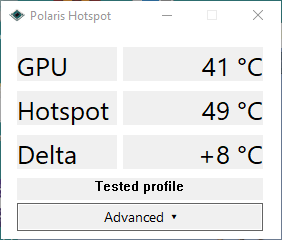
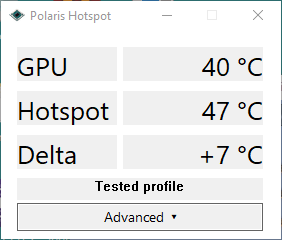
Clean up the owned RTCore service after reader exit

diff --git a/windows/main.cpp b/windows/main.cpp
@@ -20,12 +20,12 @@
 #include "BoardInfo.hpp"
 #include "polaris_memory_bios.hpp"
 #include "polaris_slt.hpp"
+#include "ServiceGuard.hpp"
 
 static void check(bool ok, const char* message) { if (!ok) throw std::runtime_error(message); }
 class Reader {
     static constexpr DWORD grbmIndex=0xC200u*4; // Register index -> BAR5 byte offset.
     HANDLE device = INVALID_HANDLE_VALUE, mutex = nullptr;
-    SC_HANDLE manager = nullptr, service = nullptr;
     std::array<unsigned char,48> mapping{};
     bool mapped = false;
     DWORD bus = 0, slot = 0, function = 0;
@@ -113,34 +113,19 @@ class Reader {
         }
         return paths;
     }
-    static bool compatible(const std::wstring& path) {
-        std::ifstream input(path,std::ios::binary|std::ios::ate);
-        if(!input || input.tellg()<=0 || input.tellg()>1024*1024) return false;
-        input.seekg(0);
-        std::string bytes((std::istreambuf_iterator<char>(input)),{});
-        if(bytes.empty()) return false;
-        unsigned char digest[32]{};
-        if(BCryptHash(BCRYPT_SHA256_ALG_HANDLE,nullptr,0,reinterpret_cast<PUCHAR>(&bytes[0]),static_cast<ULONG>(bytes.size()),digest,32)!=0) return false;
-        const unsigned char expected[32]={0xf1,0xc8,0xca,0x23,0x27,0x89,0xc2,0xf1,0x1a,0x51,0x1c,0x8c,0xd9,0x5a,0x9f,0x38,0x30,0xdd,0x71,0x9c,0xad,0x5a,0xa2,0x2c,0xb7,0xc3,0x53,0x9a,0xb8,0xcb,0x4d,0xc3};
-        return std::memcmp(digest,expected,32)==0;
-    }
-    void startDriver() {
+    void startDriver(HANDLE lifecycleGate) {
         std::wstring path;
-        for(const auto& candidate:driverPaths()) if(compatible(candidate)) { path=candidate; break; }
+        for(const auto& candidate:driverPaths()) if(service_guard::compatible(candidate)) { path=candidate; break; }
         check(!path.empty(),"Compatible RTCore64.sys not found in MSI Afterburner or beside this EXE");
-        manager=OpenSCManagerW(nullptr,nullptr,SC_MANAGER_CREATE_SERVICE);
-        check(manager!=nullptr,"Administrator access required");
-        service=CreateServiceW(manager,L"PolarisHotspotRTCore",L"Polaris Hotspot register access",SERVICE_START|SERVICE_STOP|DELETE|SERVICE_QUERY_STATUS,SERVICE_KERNEL_DRIVER,SERVICE_DEMAND_START,SERVICE_ERROR_NORMAL,path.c_str(),nullptr,nullptr,nullptr,nullptr,nullptr);
-        check(service!=nullptr,"Cannot create temporary driver service; check for another instance");
-        check(StartServiceW(service,0,nullptr)!=FALSE,"Windows could not load the register driver");
+        check(service_guard::launch(lifecycleGate,path),"Windows could not start the temporary RTCore service");
         openDevice(); check(device!=INVALID_HANDLE_VALUE,"Driver device unavailable");
     }
 public:
     BoardInfo board;
     DWORD identity=0;
     bool tested=false;
-    void open() {
-        locate(); openDevice(); if (device==INVALID_HANDLE_VALUE) startDriver();
+    void open(HANDLE lifecycleGate) {
+        locate(); openDevice(); if (device==INVALID_HANDLE_VALUE) startDriver(lifecycleGate);
         identity=pci(0);
         check(polaris::accepts_device(identity&0xFFFF,identity>>16) && (pci(4)&2),"GPU identity or memory decoding invalid");
         tested=polaris::tested_profile(identity>>16,pci(0x2c),pci(8)&0xFF);
@@ -232,8 +217,6 @@ public:
         if(mapped) { DWORD bytes=0; DeviceIoControl(device,0x80002044,mapping.data(),48,nullptr,0,&bytes,nullptr); }
         if(device!=INVALID_HANDLE_VALUE) CloseHandle(device);
         if(mutex) CloseHandle(mutex);
-        if(service) { SERVICE_STATUS status{}; ControlService(service,SERVICE_CONTROL_STOP,&status); DeleteService(service); CloseServiceHandle(service); }
-        if(manager) CloseServiceHandle(manager);
     }
 };
 
@@ -309,16 +292,26 @@ static LRESULT CALLBACK windowProc(HWND window,UINT message,WPARAM w,LPARAM l) {
     return DefWindowProcW(window,message,w,l);
 }
 int WINAPI wWinMain(HINSTANCE instance,HINSTANCE,PWSTR,int show) {
+    HANDLE lifecycleGate=nullptr;
     try {
         int count=0; auto args=CommandLineToArgvW(GetCommandLineW(),&count); check(args!=nullptr,"Arguments unavailable");
+        if(count==7 && std::wstring(args[1])==L"--service-guardian"){
+            auto handle=[&](int index){return reinterpret_cast<HANDLE>(static_cast<std::uintptr_t>(std::stoull(args[index])));};
+            HANDLE parent=handle(2),gate=handle(3),ready=handle(4),success=handle(5);std::wstring path=args[6];LocalFree(args);
+            return service_guard::run(parent,gate,ready,success,path);
+        }
         for(int i=1;i<count;++i) {
             if(std::wstring(args[i])==L"--samples" && i+1<count) { sampleLimit=std::stoul(args[++i]); check(sampleLimit>0,"Sample count must be positive"); }
             else if(std::wstring(args[i])==L"--log" && i+1<count) { check(logFile==nullptr,"Duplicate log option"); check(_wfopen_s(&logFile,args[++i],L"wx")==0,"Cannot create new log file"); }
             else throw std::runtime_error("Options: --samples N --log new-file.csv");
         }
         LocalFree(args);
+        SECURITY_ATTRIBUTES security{sizeof(security),nullptr,TRUE};
+        lifecycleGate=CreateEventW(&security,TRUE,FALSE,L"Global\\PolarisHotspot.Lifecycle");
+        check(lifecycleGate!=nullptr,"Cannot initialize lifecycle guard");
+        if(GetLastError()==ERROR_ALREADY_EXISTS){CloseHandle(lifecycleGate);lifecycleGate=nullptr;throw std::runtime_error("Polaris Hotspot is already running or finishing cleanup");}
         reader=std::make_unique<Reader>();
-        try{reader->open();}catch(const std::exception& e){startupError=e.what();}
+        try{reader->open(lifecycleGate);}catch(const std::exception& e){startupError=e.what();}
         if(logFile) { fprintf(logFile,"# pci=0x%08lX;identification_reads=%u\n",reader->identity,reader->board.acquisitions);fprintf(logFile,"# name=%ls;units=%ls;revision=%ls;vbios=%ls;sid=%ls\n",reader->board.name.c_str(),reader->board.units.c_str(),reader->board.revision.c_str(),reader->board.bios.c_str(),reader->board.sid.c_str());fprintf(logFile,"# asic_quality=%ls;quality_raw=%u\n",reader->board.quality.c_str(),reader->board.qualityRaw);fprintf(logFile,"uptime_ms,raw,hotspot_c,selector_restored,gpu_c,delta_c\n"); fflush(logFile); }
         if(logFile){fprintf(logFile,"# slt=%ls\n",reader->board.slt.c_str());fprintf(logFile,"# memory_reads=%u;vendor=%ls;model=%ls;bytes=%llu;module=%u;memory_error=%s\n",reader->board.memoryAcquisitions,reader->board.memoryVendor.c_str(),reader->board.memoryModel.c_str(),reader->board.memoryBytes,reader->board.memoryModule,reader->board.memoryError.c_str());fflush(logFile);}
         WNDCLASSW cls{}; cls.lpfnWndProc=windowProc; cls.hInstance=instance; cls.lpszClassName=L"PolarisHotspotWindow"; cls.hCursor=LoadCursor(nullptr,IDC_ARROW); cls.hbrBackground=reinterpret_cast<HBRUSH>(COLOR_WINDOW+1);
@@ -335,5 +328,5 @@ int WINAPI wWinMain(HINSTANCE instance,HINSTANCE,PWSTR,int show) {
         result=1; if(logFile) { fprintf(logFile,"ERROR,%s\n",e.what()); fflush(logFile); }
         if(!sampleLimit) MessageBoxA(nullptr,e.what(),"Polaris Hotspot",MB_ICONERROR);
     }
-    reader.reset(); if(font) DeleteObject(font);if(detailsFont)DeleteObject(detailsFont); if(logFile) fclose(logFile); return result;
+    reader.reset();if(lifecycleGate)CloseHandle(lifecycleGate); if(font) DeleteObject(font);if(detailsFont)DeleteObject(detailsFont); if(logFile) fclose(logFile); return result;
 }

diff --git a/windows/ServiceGuard.hpp b/windows/ServiceGuard.hpp
@@ -1,0 +1,121 @@
+#pragma once
+#include <windows.h>
+#include <bcrypt.h>
+#include <string>
+#include <vector>
+#include <fstream>
+#include <cstring>
+#include <cstdint>
+#include <cstdio>
+
+namespace service_guard {
+constexpr wchar_t serviceName[]=L"PolarisHotspotRTCore";
+
+// The validated driver files from Afterburner 4.6.5, 4.6.6 and 4.6.7 Beta 2.
+inline bool compatible(const std::wstring& path) {
+    std::ifstream input(path,std::ios::binary|std::ios::ate);
+    if(!input||input.tellg()<=0||input.tellg()>1024*1024)return false;
+    input.seekg(0);std::string bytes((std::istreambuf_iterator<char>(input)),{});
+    if(bytes.empty())return false;
+    unsigned char digest[32]{};
+    if(BCryptHash(BCRYPT_SHA256_ALG_HANDLE,nullptr,0,reinterpret_cast<PUCHAR>(&bytes[0]),static_cast<ULONG>(bytes.size()),digest,32)!=0)return false;
+    const unsigned char allowed[][32]={
+        {0xf1,0xc8,0xca,0x23,0x27,0x89,0xc2,0xf1,0x1a,0x51,0x1c,0x8c,0xd9,0x5a,0x9f,0x38,0x30,0xdd,0x71,0x9c,0xad,0x5a,0xa2,0x2c,0xb7,0xc3,0x53,0x9a,0xb8,0xcb,0x4d,0xc3},
+        {0xa4,0xf4,0x4e,0x26,0x76,0x98,0xd4,0x7f,0x6a,0x90,0x5e,0x96,0xb3,0x56,0x58,0x2b,0x4e,0xe9,0xcf,0x40,0x49,0xe8,0xc7,0x92,0xff,0xda,0x1b,0x73,0x56,0xe6,0x8d,0x35}
+    };
+    for(const auto& hash:allowed)if(std::memcmp(digest,hash,32)==0)return true;
+    return false;
+}
+
+inline void recordFailure(const char* operation,DWORD error) {
+    wchar_t directory[MAX_PATH]{};
+    if(!GetTempPathW(MAX_PATH,directory))return;
+    std::wstring path=std::wstring(directory)+L"PolarisHotspot-cleanup.log";
+    FILE* f=nullptr;
+    if(_wfopen_s(&f,path.c_str(),L"a")==0){std::fprintf(f,"%s: Windows error %lu\n",operation,error);std::fclose(f);}
+}
+
+inline bool requestStop(SC_HANDLE service) {
+    SERVICE_STATUS status{};
+    if(!QueryServiceStatus(service,&status))return false;
+    if(status.dwCurrentState==SERVICE_STOPPED||status.dwCurrentState==SERVICE_STOP_PENDING)return true;
+    return ControlService(service,SERVICE_CONTROL_STOP,&status)||GetLastError()==ERROR_SERVICE_NOT_ACTIVE;
+}
+
+// Recover only this application's stopped temporary service with an approved driver.
+inline bool removeStale(SC_HANDLE manager) {
+    SC_HANDLE old=OpenServiceW(manager,serviceName,SERVICE_QUERY_STATUS|SERVICE_QUERY_CONFIG|DELETE);
+    if(!old)return false;
+    SERVICE_STATUS state{};DWORD needed=0;
+    QueryServiceConfigW(old,nullptr,0,&needed);
+    std::vector<unsigned char> buffer(needed);
+    auto config=reinterpret_cast<QUERY_SERVICE_CONFIGW*>(buffer.data());
+    bool safe=needed&&QueryServiceStatus(old,&state)&&state.dwCurrentState==SERVICE_STOPPED&&
+        QueryServiceConfigW(old,config,needed,&needed)&&config->dwServiceType==SERVICE_KERNEL_DRIVER&&config->lpBinaryPathName;
+    if(safe){
+        std::wstring path=config->lpBinaryPathName;
+        if(path.compare(0,4,L"\\??\\")==0)path.erase(0,4);
+        if(path.size()>1&&path.front()==L'"'&&path.back()==L'"')path=path.substr(1,path.size()-2);
+        safe=compatible(path);
+    }
+    bool ok=safe&&DeleteService(old);
+    CloseServiceHandle(old);return ok;
+}
+
+// This child owns only a service that it created. Inherited process handle pins
+// the actual parent, avoiding PID-reuse races after an abnormal termination.
+inline int run(HANDLE parent,HANDLE gate,HANDLE ready,HANDLE success,const std::wstring& path) {
+    SC_HANDLE manager=OpenSCManagerW(nullptr,nullptr,SC_MANAGER_CONNECT|SC_MANAGER_CREATE_SERVICE);
+    SC_HANDLE service=nullptr;DWORD failure=ERROR_SUCCESS;
+    if(!manager)failure=GetLastError();
+    if(manager){
+        for(int attempt=0;attempt<30;attempt++){
+            service=CreateServiceW(manager,serviceName,L"Polaris Hotspot register access",SERVICE_START|SERVICE_STOP|SERVICE_QUERY_STATUS|DELETE,SERVICE_KERNEL_DRIVER,SERVICE_DEMAND_START,SERVICE_ERROR_NORMAL,path.c_str(),nullptr,nullptr,nullptr,nullptr,nullptr);
+            if(service)break;
+            failure=GetLastError();
+            if(failure==ERROR_SERVICE_EXISTS){if(!removeStale(manager))break;}
+            else if(failure!=ERROR_SERVICE_MARKED_FOR_DELETE)break;
+            Sleep(100);
+        }
+        if(!service && failure==ERROR_SUCCESS)failure=ERROR_SERVICE_EXISTS;
+    }
+    bool started=service&&StartServiceW(service,0,nullptr);
+    if(service&&!started)failure=GetLastError();
+    if(started)SetEvent(success);
+    SetEvent(ready);
+    if(started)WaitForSingleObject(parent,INFINITE);
+    if(service){
+        if(!requestStop(service))recordFailure("StopService",GetLastError());
+        else if(!DeleteService(service)&&GetLastError()!=ERROR_SERVICE_MARKED_FOR_DELETE)recordFailure("DeleteService",GetLastError());
+        CloseServiceHandle(service);
+    }
+    if(manager)CloseServiceHandle(manager);
+    CloseHandle(parent);CloseHandle(gate);CloseHandle(ready);CloseHandle(success);
+    return started?0:static_cast<int>(failure?failure:ERROR_GEN_FAILURE);
+}
+
+// Starts a hidden copy of this executable; only four explicit handles are inherited.
+inline bool launch(HANDLE gate,const std::wstring& path) {
+    SECURITY_ATTRIBUTES security{sizeof(security),nullptr,TRUE};
+    HANDLE parent=nullptr;
+    if(!DuplicateHandle(GetCurrentProcess(),GetCurrentProcess(),GetCurrentProcess(),&parent,0,TRUE,DUPLICATE_SAME_ACCESS))return false;
+    HANDLE ready=CreateEventW(&security,TRUE,FALSE,nullptr),success=CreateEventW(&security,TRUE,FALSE,nullptr);
+    if(!ready||!success){if(ready)CloseHandle(ready);if(success)CloseHandle(success);CloseHandle(parent);return false;}
+    wchar_t exe[MAX_PATH]{};DWORD n=GetModuleFileNameW(nullptr,exe,MAX_PATH);
+    bool ok=n>0&&n<MAX_PATH;
+    std::wstring command;
+    if(ok)command=L"\""+std::wstring(exe)+L"\" --service-guardian "+std::to_wstring(reinterpret_cast<std::uintptr_t>(parent))+L" "+std::to_wstring(reinterpret_cast<std::uintptr_t>(gate))+L" "+std::to_wstring(reinterpret_cast<std::uintptr_t>(ready))+L" "+std::to_wstring(reinterpret_cast<std::uintptr_t>(success))+L" \""+path+L"\"";
+    SIZE_T bytes=0;InitializeProcThreadAttributeList(nullptr,1,0,&bytes);
+    std::vector<unsigned char> storage(bytes);
+    auto attrs=reinterpret_cast<PPROC_THREAD_ATTRIBUTE_LIST>(storage.data());
+    bool attrsReady=ok&&InitializeProcThreadAttributeList(attrs,1,0,&bytes);
+    HANDLE inherited[]={parent,gate,ready,success};
+    if(attrsReady)ok=UpdateProcThreadAttribute(attrs,0,PROC_THREAD_ATTRIBUTE_HANDLE_LIST,inherited,sizeof inherited,nullptr,nullptr)!=FALSE;else ok=false;
+    STARTUPINFOEXW si{};si.StartupInfo.cb=sizeof si;si.StartupInfo.dwFlags=STARTF_USESHOWWINDOW;si.StartupInfo.wShowWindow=SW_HIDE;si.lpAttributeList=attrs;
+    PROCESS_INFORMATION pi{};
+    if(ok){std::vector<wchar_t> args(command.begin(),command.end());args.push_back(0);ok=CreateProcessW(exe,args.data(),nullptr,nullptr,TRUE,EXTENDED_STARTUPINFO_PRESENT|CREATE_NO_WINDOW,nullptr,nullptr,&si.StartupInfo,&pi)!=FALSE;}
+    if(attrsReady)DeleteProcThreadAttributeList(attrs);
+    if(ok){ok=WaitForSingleObject(ready,15000)==WAIT_OBJECT_0&&WaitForSingleObject(success,0)==WAIT_OBJECT_0;CloseHandle(pi.hThread);CloseHandle(pi.hProcess);}
+    CloseHandle(parent);CloseHandle(ready);CloseHandle(success);return ok;
+}
+}

diff --git a/windows/README.md b/windows/README.md
@@ -28,13 +28,14 @@ This application needs a compatible RTCore64 register-access driver. A kernel dr
 
 If no driver is already available, the program searches for a compatible `RTCore64.sys` beside the executable, then in the MSI Afterburner installation recorded in the Windows uninstall registry (32-bit and 64-bit views), and finally in the standard Program Files locations. An existing Afterburner installation can therefore be used directly, without copying its driver or opening the Afterburner application. Custom installations are discovered through their registered installation/uninstall location.
 
-Each candidate is checked before loading. An incompatible candidate is skipped; if no supported file is found, the program displays an error. The supported file has SHA-256:
+Each candidate is checked before loading. An incompatible candidate is skipped; if no supported file is found, the program displays an error. The following SHA-256 hashes cover the inspected Afterburner 4.6.5, 4.6.6 and 4.6.7 Beta 2 packages (the latter two contain the same driver):
 
 ```text
[2 lines of base64/hex data omitted]
 ```
 
-The program checks this hash before creating its temporary `PolarisHotspotRTCore` service. It stops/removes that service on normal exit, but does not stop a driver that was already running. Windows must permit loading this driver; the application does not change security settings. If the process is forcibly terminated, a created service can remain and require administrator cleanup.
+The program checks the hash before starting its temporary `PolarisHotspotRTCore` service. A hidden copy of the same executable watches the reader and requests the stop and removal of the service it created, including when the reader process is forcibly terminated. If another client has the driver open, Windows keeps it available until that client closes it, then completes the removal. A driver already running is reused and left alone. Only one reader instance is allowed while its cleanup is pending. If the reader and helper are both forcibly terminated, the helper cannot clean up; the service may remain loaded. Windows must permit loading the driver; the application does not change security settings. If cleanup fails, details are written to `%TEMP%\PolarisHotspot-cleanup.log`.
 
 The collector coordinates indirect SMU access with `Global\Access_PCI`, validates selection/restoration, and writes only the SMU selector. Other monitors and drivers may not honor this mutex; simultaneous monitoring is not universally validated. A failed read stops acquisition and displays an error instead of retaining a stale temperature.
 

diff --git a/README.md b/README.md
@@ -6,6 +6,8 @@ Minimal C++ recipe for reading the firmware-reported hotspot on AMD Polaris, val
 
 [Download PolarisHotspot.exe](https://github.com/fmuniztriana/polaris-hotspot/releases/latest) and run as administrator with MSI Afterburner installed. It shows **GPU, Hotspot and Delta**, updated every second, and finds the compatible RTCore driver automatically. No copying files or opening Afterburner is needed.
 
+The validated RTCore files from Afterburner **4.6.5, 4.6.6 and 4.6.7 Beta 2** are accepted. The reader cleans up its own temporary driver service when it closes; an already-running driver is left alone.
+
 ![Polaris Hotspot panel](windows/assets/panel.png)
 
 Both temperatures come from the same register read; delta is `Hotspot − GPU`. See [setup and build instructions](windows/README.md).
